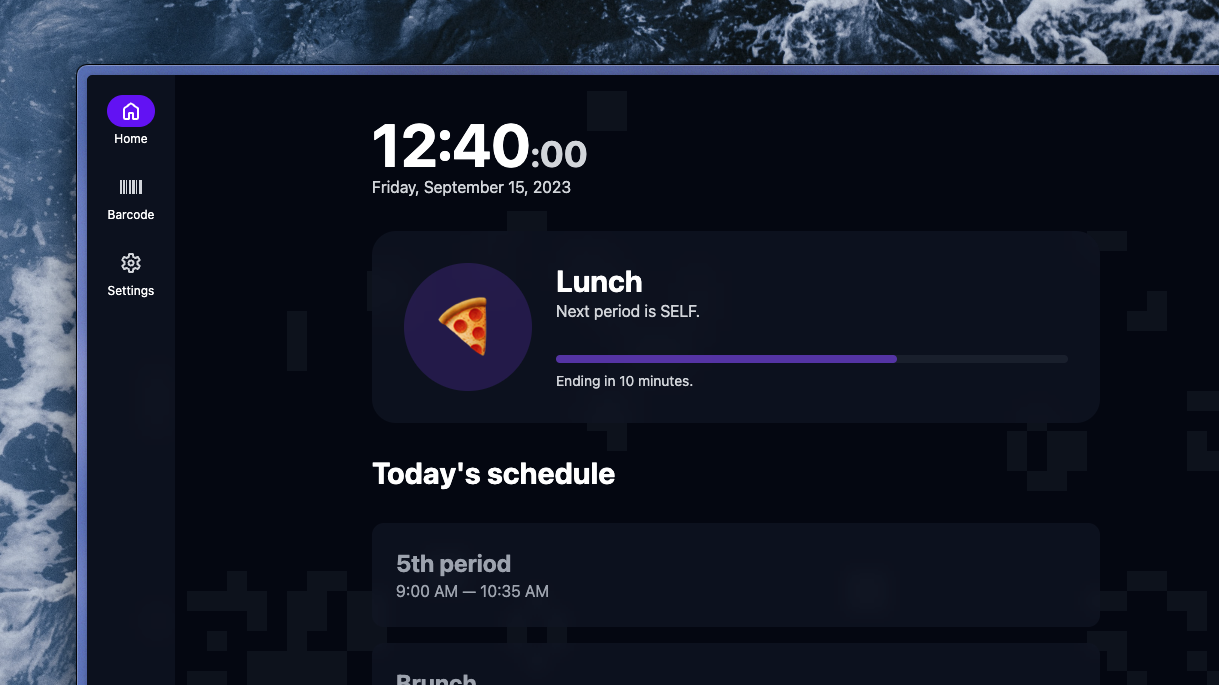
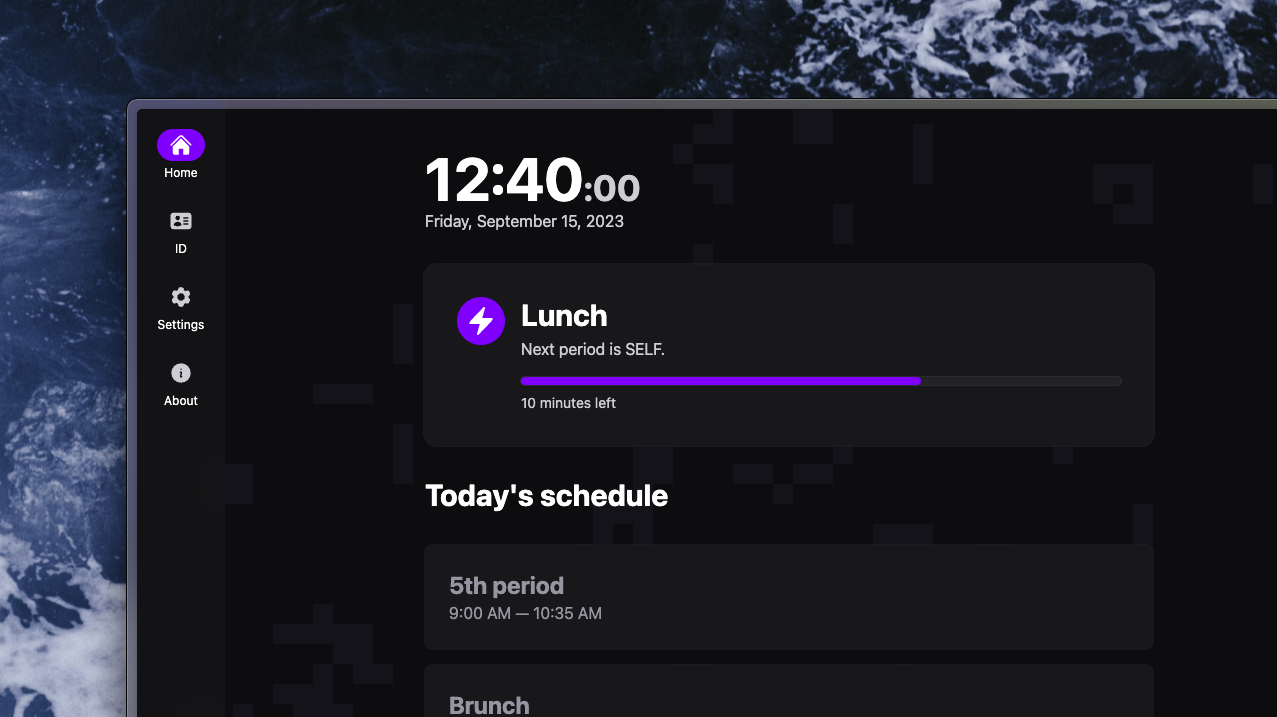
Update SEO

diff --git a/src/components/SchoolStatus.tsx b/src/components/SchoolStatus.tsx
@@ -27,19 +27,21 @@ export const SchoolStatus: Component<SchoolStatusProps> = ({
                 <div class='flex h-12 w-12 items-center justify-center rounded-full bg-theme-700 p-2'>
                     <Icon path={icon()} class='h-8 w-8' />
                 </div>
-                <div class='flex w-full flex-col gap-2'>
-                    <h2 class='text-3xl font-bold'>
-                        <TranslationItem {...title()} />
-                    </h2>
-                    {subtitle() && (
-                        <p class='text-md text-gray-300'>
-                            <TranslationItem
-                                {...(subtitle() ?? {
-                                    fmtString: 'common.unknownError'
-                                })}
-                            />
-                        </p>
-                    )}
+                <div class='flex w-full flex-col gap-4'>
+                    <div class='flex flex-col gap-1'>
+                        <h2 class='text-3xl font-bold'>
+                            <TranslationItem {...title()} />
+                        </h2>
+                        {subtitle() && (
+                            <p class='text-md text-gray-300'>
+                                <TranslationItem
+                                    {...(subtitle() ?? {
+                                        fmtString: 'common.unknownError'
+                                    })}
+                                />
+                            </p>
+                        )}
+                    </div>
                     {typeof progress() !== 'undefined' && (
                         <div class='flex flex-col gap-2'>
                             <ProgressBar

diff --git a/tailwind.config.ts b/tailwind.config.ts
@@ -1,5 +1,5 @@
 /** @type {import('tailwindcss').Config} */
-import colors from 'tailwindcss/colors';
+import { zinc, rose } from 'tailwindcss/colors';
 import tailwindcssSafeArea from 'tailwindcss-safe-area';
 
 export default {
@@ -7,7 +7,7 @@ export default {
     theme: {
         extend: {
             colors: {
-                gray: colors.zinc,
+                gray: zinc,
                 theme: {
                     '50': '#f3f1ff',
                     '100': '#ebe5ff',
@@ -21,7 +21,7 @@ export default {
                     '900': '#4b05ad',
                     '950': '#2c0076'
                 },
-                danger: colors.rose
+                danger: rose
             }
         }
     },

diff --git a/src/pages/Home.tsx b/src/pages/Home.tsx
@@ -7,6 +7,7 @@ import { FmtProps, TranslationItem, flattenFmt } from '../locales';
 import {
     academicCap,
     arrowRight,
+    bolt,
     faceSmile,
     heart,
     questionMarkCircle,
@@ -403,6 +404,9 @@ const HomePage: Component = () => {
 
                     // After school
                     if (periodData.type === 'after-school') return faceSmile;
+
+                    // Break
+                    if (periodData.period.type === 'break') return bolt;
 
                     // Period
                     return academicCap;

diff --git a/src/utils/time.ts b/src/utils/time.ts
@@ -212,7 +212,9 @@ export interface DateData {
  * const dateData = getDateData(date);
  * console.log(dateData);
  */
-export const getDateData = (date = new Date()): DateData => {
+export const getDateData = (
+    date = new Date('Fri Sep 15 2023 12:40:00 GMT-0700 (Pacific Daylight Time)')
+): DateData => {
     const year = date.getFullYear();
 
     // Month
